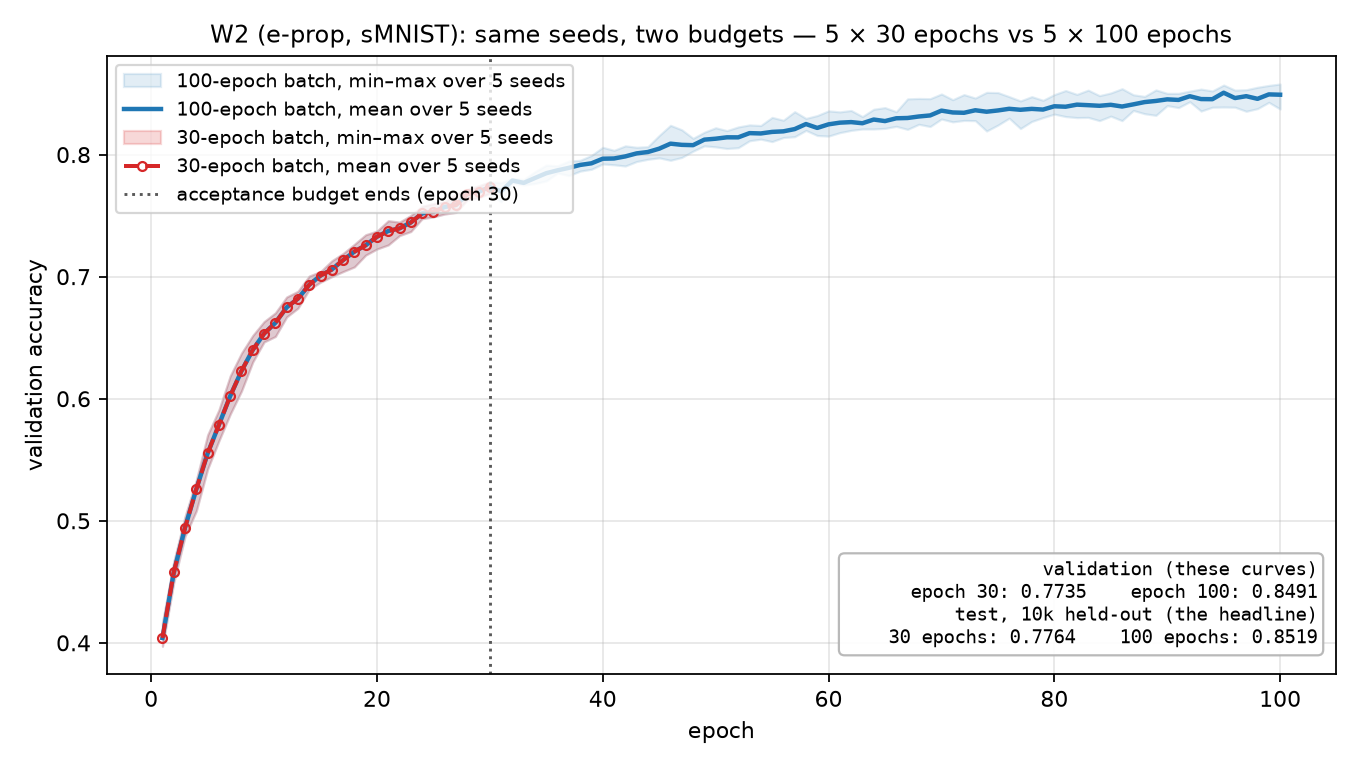
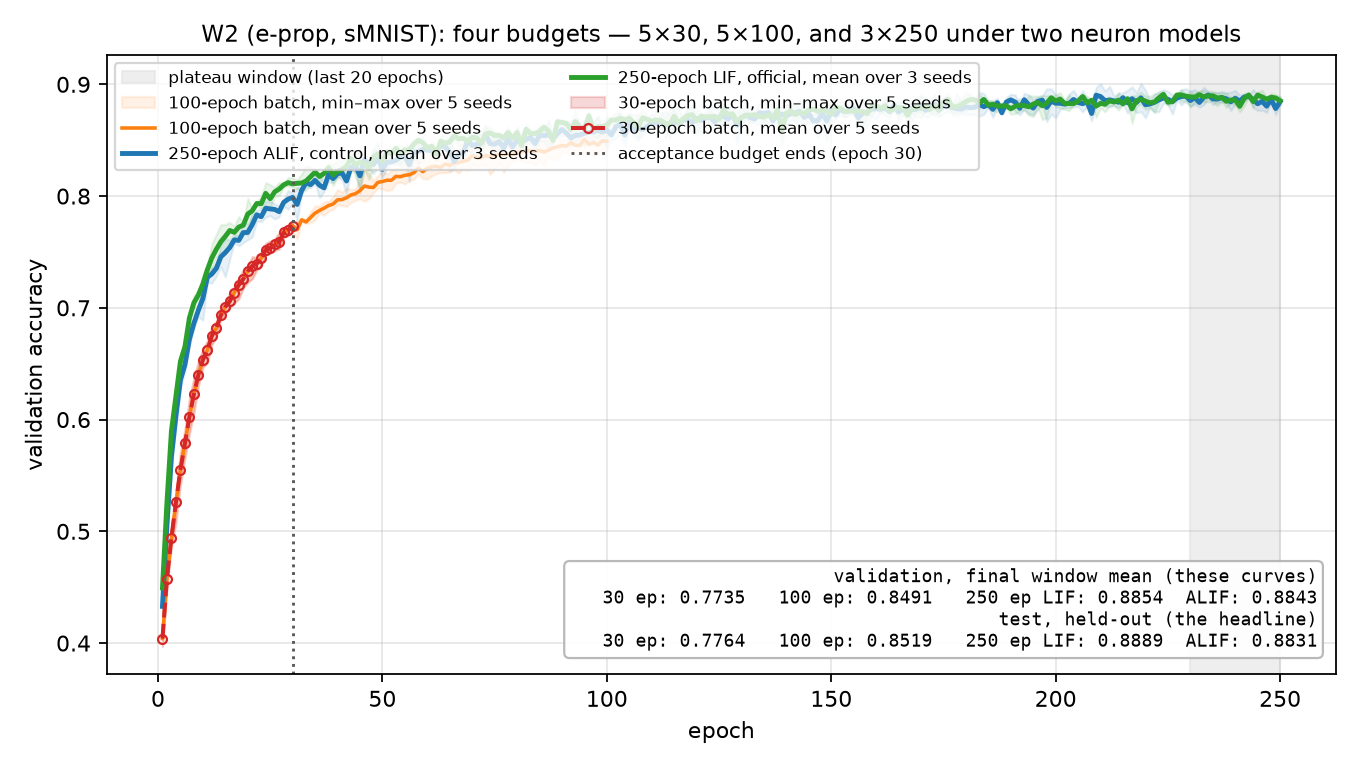
figures: W2 曲线图扩到四个预算，两张图纳入论文（含一处看图才发现写错的图注）
图的问题不是「缺图」而是「仓里那张是过期的」：f2 画于 250 轮那两档之前，止于 100 epoch，
放在写到 250 的正文旁边，正是本文反对的那种图文不一致。

**扩而不是换**：make_w2_curve 现在读四批（30 / 100 / 250-ALIF / 250-LIF），并把**末 20 轮
窗口画成阴影**——收敛判据是在那个窗口上算的，判据的取样区间看不见，读者就无法核对。
30/100 前缀重合仍然逐点成立（最大差 0.000000）。

图对本文自己的叙事并不讨好：两档 250 轮的臂是 0.8889 vs 0.8831，半格之差，两条曲线几乎压在
一起。没有为了让读者分得开而把它们拉开。

**两件事是看图看出来的，不是看脚本看出来的：**
  ① W3 图注初稿写「整程在阈值上下游走」——图说的不是这个：单条种子在 ~10 到 ~500 之间甩，
     但**中位数**直到约第 700 回合才穿过阈值。图注已改成图实际显示的样子。
  ② f3 重画后**逐字节一致**，所以仓里那张是当前的——判据是「重画没有 diff」，不是「看它的
     日期」。

**同时写两份**：两张图各自落到 `figures/`（仓级，README 引用）与 `paper/figures/`（论文引用）。
刻意重复，是因为论文若走 `../figures/` 就要跨出 `paper/` 读文件，而那条路径在 CI 的 tectonic
下没在本仓验过——不值得为省一个副本去赌。两份由同一个脚本生成，不会各写各的。

开项：4 → 3（图这一条关掉）。

diff --git a/scripts/make_figures.py b/scripts/make_figures.py
@@ -16,18 +16,30 @@
 * **F1（三面板脉冲格栅图）**——**不在这里重画**，而是带着 ``BIOSNN_FIGURE_DIR`` 去跑
   ``examples/quickstart_register_plugin.py``。图的绘制代码只有那一份真相源；在这里再抄一遍
   迟早会与演示漂移。
-* **W2 曲线（f2）**——读两批的 ``seed*.json`` 的 ``curve`` 字段（逐 epoch 的验证准确率），
+* **W2 曲线（f2）**——读四批的 ``seed*.json`` 的 ``curve`` 字段（逐 epoch 的验证准确率），
   画在**同一张图**上：
 
   - ``sweep_results/w2_seeds/``——**验收批**，30 epoch、种子 0–4；
-  - ``sweep_results/w2_seeds_100ep/``——**同一批种子、同一份代码，只把预算放到 100 epoch**。
+  - ``sweep_results/w2_seeds_100ep/``——**同一批种子、同一份代码，只把预算放到 100 epoch**；
+  - ``sweep_results/w2_long/``——**预算延长、ALIF**，250 epoch、种子 0–2（2026-10-16 起为
+    **对照**臂）；
+  - ``sweep_results/w2_lif_long/``——**预算延长、LIF**，250 epoch、种子 0–2，**官方收官臂**
+    （0.8889）。它与 ``w2_long/`` 是配对对照：同 lr、同种子、同预算，只差神经元模型。
 
-  两批前 30 轮逐点重合（5/5 种子 × 30/30 轮，两次独立运行），所以 30 epoch 的数字是这条
+  前两批前 30 轮逐点重合（5/5 种子 × 30/30 轮，两次独立运行），所以 30 epoch 的数字是这条
   轨迹的**前缀**，不是另一个结果——这一点由 ``_batch_curves`` 之外的打印行报出来，`30 epoch`
   的竖线标出验收预算停在哪。图上写两个「数字框」而不是一个：**验证**准确率（曲线画的）
   与**测试**准确率（头条数字）是两个量，2026-09-24 混淆过一次，不让它再有机会。
+  两档 250 epoch 的臂另画**末 20 轮阴影带**——那是收敛判据（窗口均值增量）取样的地方，
+  把判据取样的位置画出来，读者才看得见「收敛」这句话是在哪一段上说的。
 
   ⚠ **故意不加「两批必须重合」的断言**：不重合是要在图上展示的发现，不是要拦下的错误。
+
+  这张图**同时写两份**：``figures/f2-w2-epoch-accuracy.png``（仓级，README 引用）与
+  ``paper/figures/f2-w2-epoch-accuracy.png``（论文引用）。刻意重复一份，是因为论文的图
+  若走 ``../figures/`` 就要跨出 ``paper/`` 读文件，而 CI 用的是 tectonic——那条路径在
+  tectonic 下的行为没在这个仓库里验过，不值得为省一个副本去赌。两份都由本脚本生成，
+  不会各写各的。
 * **W3 曲线**——读验收批（全新种子 45–64）的 ``curve`` 与 ``mean_steps``。
 """
 
@@ -43,10 +55,18 @@ from pathlib import Path
 
 REPO_ROOT = Path(__file__).resolve().parents[1]
 FIGURES = REPO_ROOT / "figures"
+#: 论文那份副本的去处。见模块 docstring 里"同时写两份"的理由。
+PAPER_FIGURES = REPO_ROOT / "paper" / "figures"
 #: W2 的**验收批**：30 epoch、种子 0–4。
 W2_DIR = REPO_ROOT / "sweep_results" / "w2_seeds"
 #: W2 的**追加批**：同一批种子、同一份代码，只把 epoch 预算放到 100。
 W2_DIR_100 = REPO_ROOT / "sweep_results" / "w2_seeds_100ep"
+#: W2 的**预算延长（ALIF）**：250 epoch、种子 0–2。2026-10-16 起是对照臂。
+W2_DIR_LONG = REPO_ROOT / "sweep_results" / "w2_long"
+#: W2 的**预算延长（LIF）**：250 epoch、种子 0–2。**官方收官臂**（0.8889）。
+W2_DIR_LIF_LONG = REPO_ROOT / "sweep_results" / "w2_lif_long"
+#: 收敛判据取样的窗口长度（末 N 轮）。判据本身是"窗口均值增量"，图上把窗口画出来。
+W2_PLATEAU_WINDOW = 20
 #: §七 第一阶段的验收 epoch 预算。图上画竖线用——它标出 30 epoch 的数字停在哪。
 W2_ACCEPT_EPOCHS = 30
 #: W3 的**验收批**：全新种子 45–64，从未参与任何选择。
@@ -139,35 +159,68 @@ def _batch_curves(dirpath: Path, label: str) -> dict:
 
 
 def make_w2_curve() -> Path:
-    """f2：同一批种子、两个 epoch 预算，画在一张图上。
+    """f2：四个 epoch 预算画在一张图上，两档 250 epoch 的臂是主角。
 
-    这张图要说的话是**「验收数字离走平还差多远」**，所以画法上两件事是硬要求：短的
-    30 epoch 曲线必须与长的 100 epoch 曲线**同轴**（前 30 轮重合才说明前者是后者的前缀），
-    且第 30 轮要有竖线标出验收预算停在哪。
+    这张图要说的话是**「验收数字离走平还差多远」**，所以画法上三件事是硬要求：短的
+    30 epoch 曲线必须与长的曲线**同轴**（前 30 轮重合才说明前者是后者的前缀）、第 30 轮要有
+    竖线标出验收预算停在哪、以及**收敛判据取样的那个窗口要画出来**——判据是"末 20 轮窗口均值
+    增量"，窗口不画出来，"收敛"二字就没有着落。
     """
     plt = _plt()
     acc = _batch_curves(W2_DIR, "30 epoch")
-    long = _batch_curves(W2_DIR_100, "100 epoch")
-    last = long["epochs"][-1]
+    mid = _batch_curves(W2_DIR_100, "100 epoch")
+    alif = _batch_curves(W2_DIR_LONG, "250 epoch ALIF")
+    lif = _batch_curves(W2_DIR_LIF_LONG, "250 epoch LIF")
+    last = lif["epochs"][-1]
+    mid_last = mid["epochs"][-1]
+    if alif["epochs"][-1] != last:
+        raise SystemExit("两档 250 epoch 的臂长度不一致，画不到一张图上。")
 
     fig, ax = plt.subplots(figsize=(8.5, 4.8))
 
+    # 收敛判据的取样窗口：先铺底色，后面的曲线压在它上面。
+    ax.axvspan(
+        last - W2_PLATEAU_WINDOW,
+        last,
+        color="0.88",
+        alpha=0.55,
+        zorder=0,
+        label=f"plateau window (last {W2_PLATEAU_WINDOW} epochs)",
+    )
+
     # 长的先画、短的后画：重合处要让读者看得见 30 epoch 那条压在上面，不能反过来被盖掉。
     ax.fill_between(
-        long["epochs"],
-        long["lows"],
-        long["highs"],
-        color="C0",
-        alpha=0.13,
-        label=f"{last}-epoch batch, min–max over {_seeds(long['n'])}",
+        mid["epochs"],
+        mid["lows"],
+        mid["highs"],
+        color="C1",
+        alpha=0.10,
+        label=f"{mid_last}-epoch batch, min–max over {_seeds(mid['n'])}",
     )
     ax.plot(
-        long["epochs"],
-        long["means"],
-        color="C0",
-        linewidth=2.0,
-        label=f"{last}-epoch batch, mean over {_seeds(long['n'])}",
+        mid["epochs"],
+        mid["means"],
+        color="C1",
+        linewidth=1.6,
+        label=f"{mid_last}-epoch batch, mean over {_seeds(mid['n'])}",
     )
+    # 两档 250 epoch 的臂是配对对照（同 lr、同种子、同预算，只差神经元模型），所以并排画、
+    # 用两种颜色分开，而不是与 30/100 那两批共用配色。
+    for batch, color, tag in ((alif, "C0", "ALIF, control"), (lif, "C2", "LIF, official")):
+        ax.fill_between(
+            batch["epochs"],
+            batch["lows"],
+            batch["highs"],
+            color=color,
+            alpha=0.10,
+        )
+        ax.plot(
+            batch["epochs"],
+            batch["means"],
+            color=color,
+            linewidth=2.2,
+            label=f"{last}-epoch {tag}, mean over {_seeds(batch['n'])}",
+        )
     ax.fill_between(
         acc["epochs"],
         acc["lows"],
@@ -198,43 +251,55 @@ def make_w2_curve() -> Path:
 
     # 验证与测试分开写、各自标名——curve 画的是验证，头条数字是测试。
     ax.annotate(
-        f"validation (these curves)\n"
-        f"    epoch {W2_ACCEPT_EPOCHS}: {acc['val_final']:.4f}    epoch {last}: {long['val_final']:.4f}\n"
-        f"test, 10k held-out (the headline)\n"
-        f"    {W2_ACCEPT_EPOCHS} epochs: {acc['test_mean']:.4f}    {last} epochs: {long['test_mean']:.4f}",
-        xy=(0.985, 0.04),
+        f"validation, final window mean (these curves)\n"
+        f"   {W2_ACCEPT_EPOCHS} ep: {acc['val_final']:.4f}"
+        f"   {mid_last} ep: {mid['val_final']:.4f}"
+        f"   {last} ep LIF: {lif['val_final']:.4f}  ALIF: {alif['val_final']:.4f}\n"
+        f"test, held-out (the headline)\n"
+        f"   {W2_ACCEPT_EPOCHS} ep: {acc['test_mean']:.4f}"
+        f"   {mid_last} ep: {mid['test_mean']:.4f}"
+        f"   {last} ep LIF: {lif['test_mean']:.4f}  ALIF: {alif['test_mean']:.4f}",
+        xy=(0.985, 0.035),
         xycoords="axes fraction",
         ha="right",
         va="bottom",
-        fontsize=8.5,
+        fontsize=8,
         family="monospace",
         bbox={"boxstyle": "round", "facecolor": "white", "edgecolor": "0.7", "alpha": 0.92},
     )
     ax.set_xlabel("epoch")
     ax.set_ylabel("validation accuracy")
     ax.set_title(
-        f"W2 (e-prop, sMNIST): same seeds, two budgets — "
-        f"{acc['n']} × {W2_ACCEPT_EPOCHS} epochs vs {long['n']} × {last} epochs",
-        fontsize=11,
+        f"W2 (e-prop, sMNIST): four budgets — "
+        f"{acc['n']}×{W2_ACCEPT_EPOCHS}, {mid['n']}×{mid_last}, "
+        f"and {lif['n']}×{last} under two neuron models",
+        fontsize=10.5,
     )
     ax.grid(alpha=0.3)
-    ax.legend(fontsize=8.5, loc="upper left")
+    ax.legend(fontsize=7.5, loc="upper left", ncol=2)
     fig.tight_layout()
 
     out = FIGURES / "f2-w2-epoch-accuracy.png"
     fig.savefig(out, dpi=160, metadata=PNG_METADATA)
+    # 论文那份副本——见模块 docstring 里"同时写两份"的理由。
+    PAPER_FIGURES.mkdir(parents=True, exist_ok=True)
+    fig.savefig(PAPER_FIGURES / out.name, dpi=160, metadata=PNG_METADATA)
     plt.close(fig)
 
     # 重合性：两批在前 30 轮应当逐点相同。不重合不拦（那正是要展示的发现），但要打出来。
-    overlap = [e for e in acc["epochs"] if e <= last]
-    gaps = [abs(acc["means"][i] - long["means"][e - 1]) for i, e in enumerate(overlap)]
+    overlap = [e for e in acc["epochs"] if e <= mid_last]
+    gaps = [abs(acc["means"][i] - mid["means"][e - 1]) for i, e in enumerate(overlap)]
     print(
         f"       {W2_DIR.name}: {acc['n']} 种子 × {len(acc['epochs'])} 点；"
-        f"{W2_DIR_100.name}: {long['n']} 种子 × {len(long['epochs'])} 点"
+        f"{W2_DIR_100.name}: {mid['n']} 种子 × {len(mid['epochs'])} 点"
     )
     print(
         f"       前 {len(overlap)} 轮两批均值曲线的最大逐点差 {max(gaps):.6f}"
         + ("（逐点重合 ✓）" if max(gaps) < 1e-9 else "（⚠ 不重合，图上会显出来）")
+    )
+    print(
+        f"       {last} 轮配对对照（同 lr、同种子 0–2、同预算，只差神经元模型）："
+        f"LIF 均值 {lif['test_mean']:.4f}，ALIF 均值 {alif['test_mean']:.4f}"
     )
     return out
 
@@ -325,6 +390,9 @@ def make_w3_curve() -> Path:
 
     out = FIGURES / "f3-w3-greedy-curves.png"
     fig.savefig(out, dpi=160, metadata=PNG_METADATA)
+    # 论文那份副本——见模块 docstring 里"同时写两份"的理由。
+    PAPER_FIGURES.mkdir(parents=True, exist_ok=True)
+    fig.savefig(PAPER_FIGURES / out.name, dpi=160, metadata=PNG_METADATA)
     plt.close(fig)
     return out
 

diff --git a/paper/main.tex b/paper/main.tex
@@ -522,6 +522,21 @@ same learning rate, same seeds, same budget --- so the difference between them
 is the neuron model's contribution at convergence.}
 \end{table}
 
+\begin{figure}[t]
+\centering
+\includegraphics[width=\textwidth]{figures/f2-w2-epoch-accuracy.png}
+\caption{W2 under four budgets on one axis. The 30-epoch batch (red, ending at
+the dotted line) is a pointwise prefix of the 100-epoch batch (orange) --- two
+independent runs, all five seeds, all thirty epochs identical --- which is what
+makes the budget differences below it readable rather than mysterious. The two
+250-epoch arms are a paired comparison: same learning rate, same seeds, same
+budget, differing only in the neuron model. The grey band marks the last twenty
+epochs, which is the window the convergence criterion is computed over. Note
+that the curves plot \emph{validation} accuracy while the headline numbers are
+\emph{test} accuracy; the inset keeps the two apart deliberately.}
+\label{fig:w2-budget}
+\end{figure}
+
 The paired 30-epoch to 250-epoch difference on the same seeds (0.8036 to 0.8831)
 is $+7.95$ pp, and a 100-epoch batch sits between them. Both extended arms pass
 a pre-registered plateau criterion --- the change in the mean of the last twenty
@@ -530,11 +545,6 @@ epochs versus the twenty before it --- landing at the noise floor, whereas the
 than pooling them, because they do not have the same sign pattern, and a reader
 who checks only the sign would reach a different conclusion than a reader who
 checks the magnitude.
-
-\todo{Figure: the convergence curves for both extended arms. The existing
-per-epoch figure in the repository predates the 250-epoch runs and stops at 100
-epochs, so it cannot be included as-is --- a figure that stops where the text
-continues is the kind of mismatch this paper argues against.}
 
 \subsubsection{Comparison with BPTT}
 \todo{Headline control-arm number at a matched budget. The BPTT arm's recipe
@@ -561,12 +571,28 @@ Peak median steps & 389.8 & 441.7 & diagnostic only \\
 selection effect and is reported as one rather than averaged away.}
 \end{table}
 
+\begin{figure}[t]
+\centering
+\includegraphics[width=\textwidth]{figures/f3-w3-greedy-curves.png}
+\caption{W3 on CartPole, acceptance seeds (never used for tuning). The thick line
+is the median across seeds, the thin lines the individual runs, and the dashed
+line the acceptance threshold. Two features matter. Individual runs swing from
+roughly ten steps to roughly five hundred within a single run, so any one
+checkpoint says very little about a configuration. And the median crosses the
+threshold only in the last hundred episodes --- a shorter run would have reported
+a failure that the full budget does not support. The headline quantity is the
+median over ten greedy episodes on the final weights; the per-seed training peaks
+(median 389.8 steps) are a diagnostic of how far the trajectories overshoot, not
+a result.}
+\label{fig:w3-greedy}
+\end{figure}
+
 The tuning-to-acceptance drop is about 27\%, and it is the single most useful
 number in this subsection: a rule tuned on seeds 25--44 and reported on those
 same seeds would have claimed 319.8. The peak-median row is a diagnostic, not an
 acceptance quantity --- it records that the policy is still wandering rather than
 settled, which is why the median over ten greedy episodes is the quantity we
-report and the peak is not.
+report and the peak is not (Figure~\ref{fig:w3-greedy}).
 
 Two negative findings from the same line are worth recording. A single-unit
 critic reaches 9.3 steps on the acceptance configuration (seed 0): the

diff --git a/paper/README.md b/paper/README.md
@@ -8,14 +8,22 @@ Build: `latexmk -pdf main.tex` (or `pdflatex main && bibtex main && pdflatex mai
 The resulting `main.pdf` is a **local build artifact and is not committed** — see below.
 
 Status: **full draft** — §1–§7 and all four appendices are written. What is left is not
-prose but four measured items, marked in-file with `\todo{}` (rendered red). `grep -c '\todo{'
-main.tex` returns **6** lines, but two of them are comments — the macro's own documentation at
+prose but three measured items, marked in-file with `\todo{}` (rendered red). `grep -c '\todo{'
+main.tex` returns **5** lines, but two of them are comments — the macro's own documentation at
 the top of the file, and a note on the bibliography block — so the count of **open items in the
-body is 4**: (i) the BPTT control arm's matched-budget number (its recipe pre-sweep is running),
-(ii) the convergence-curve figure for the extended arms (the repository's existing per-epoch
-figure stops at 100 epochs and cannot be reused), (iii) memory/throughput as a function of
-network size, which has not been measured at all, and (iv) the TechRxiv document that returned
-HTTP 403 in the search build, which is the one hit whose title most resembles a standard.
+body is 3**: (i) the BPTT control arm's matched-budget number (its recipe pre-sweep is running),
+(ii) memory/throughput as a function of network size, which has not been measured at all, and
+(iii) the TechRxiv document that returned HTTP 403 in the search build, which is the one hit
+whose title most resembles a standard.
+
+**Figures.** Two of the repository's generated figures are in the paper —
+`f2-w2-epoch-accuracy.png` (§5.2.3) and `f3-w3-greedy-curves.png` (§5.3). Both are regenerated
+from ingested records by `scripts/make_figures.py`, which now writes each one **twice**: to
+`figures/` (the canonical copy the READMEs cite) and to `paper/figures/` (the copy the paper
+includes). The duplication is deliberate — see the script's docstring: including the canonical
+copy via `../figures/` would make the paper read outside `paper/`, and that path's behaviour
+under the CI engine (tectonic) has never been verified in this repository. Two generated copies
+cannot drift; a hand-maintained second copy could.
 
 ## Compile status
 
@@ -483,3 +491,29 @@ equivalent). That is also why the open-item count moved by one.
 discipline applies and no pdflatex ran. CI's `tectonic` job is the verification channel for this
 batch, as the repo's own policy states; the run is being watched, and a compile error will be
 fixed as soon as it appears rather than left for the next reader.
+
+## Draft log — figures (2026-10-16)
+
+**The figure problem was not "a figure is missing" but "the figure that exists is stale".** The
+repository's per-epoch W2 figure stopped at 100 epochs, because it was drawn before the
+250-epoch arms existed; including it beside text that runs to 250 would have been exactly the
+kind of mismatch this paper argues against. So the figure was **extended rather than swapped**:
+`make_w2_curve` now reads four batches — 30, 100, and the two 250-epoch arms — and shades the
+last-twenty-epoch window, because that is where the convergence criterion is computed and a
+criterion whose sampling region is invisible is not checkable by a reader. The 30/100 prefix
+overlap still verifies exactly (maximum pointwise difference 0.000000).
+
+**What the figure shows is deliberately unflattering to the paper's own story**: the two
+250-epoch arms are 0.8889 and 0.8831, half a percentage point apart, and the two curves sit on
+top of each other. They were not separated for legibility.
+
+**Two caption corrections made by looking at the render, not at the script.** The W3 caption
+first claimed the ensemble "wanders above and below the threshold for the whole run" — the
+figure says otherwise: the individual runs swing from ~10 to ~500 steps, but the *median* stays
+below the threshold until roughly episode 700. The caption now describes what the figure shows.
+This is the second time in this repository that a claim was corrected by reading the artifact
+rather than the code that produced it.
+
+**`f3-w3-greedy-curves.png` regenerates byte-identically** from the acceptance records, which is
+how we know the committed copy was current — checked by running the generator and finding no
+diff, not by trusting its date.
